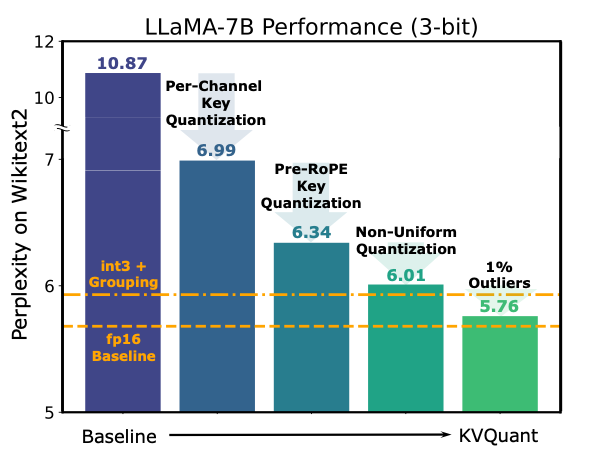
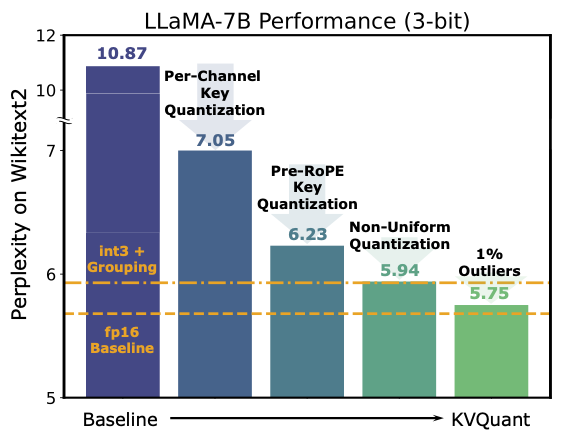
Updated thumbnail and readme

Changed region(s): [[0.0, 0.0295, 0.9538, 0.975]]

diff --git a/README.md b/README.md
@@ -29,13 +29,12 @@ To further improve our methodology for supporting long context length inference,
 - `Parallel topK support on GPU and kernels for parallel prompt processing` - we have augmented our open-source support with additional kernels to perform parallel packing with multiple input tokens, and also modified our inference code to utilize the GPU for parallel topK when appending many value tokens in parallel.
 - `Capping Key Outliers` - we have added support for running both calibration and inference with a fixed number of outliers per token for keys. This allows us to design more efficient kernels, since there is a maximum number of outliers per token for both keys and values, and it makes memory allocation easier for our method since we can allocate fixed-size memory for each key. 
 - `Attention Sink-Aware Quantization` - based on the insight from the [Attention Sink](https://arxiv.org/abs/2309.17453) paper that the model concentrates its attention on the first token, we have added support during both calibration and inference for leaving a small number of initial keys and values (eg. 5) in fp16. This can allow for significant performance gains, and was also introduced as a method for improving quantization performance in another concurrent work [IntactKV](https://arxiv.org/abs/2403.01241).
-More detailed evaluation and analysis for these improvements will be added to the arxiv preprint shortly!
 
 
 ---
 ## Installation
 
-The codebase contains three different subfolders, each of which has its own README file with instructions that you can follow for installing the required environment for that step.
+The codebase contains five subfolders, each of which has its own README file with instructions that you can follow for installing the required environment for that step.
 
 ---
 
@@ -54,9 +53,8 @@ To reproduce the perplexity numbers reported in the paper, run `gradients` and t
 ### Roadmap:
 - ~~add deployment code~~
 - ~~optimized kernels~~
-- merging optimized kernels with end-to-end inference deployment code
-- additional evaluation on long context lengths + different downstream tasks
-- multi-GPU inference
+- merge optimized kernels with updated end-to-end inference deployment code
+- add scripts for running additional long context length evaluation
 
 ---
 
